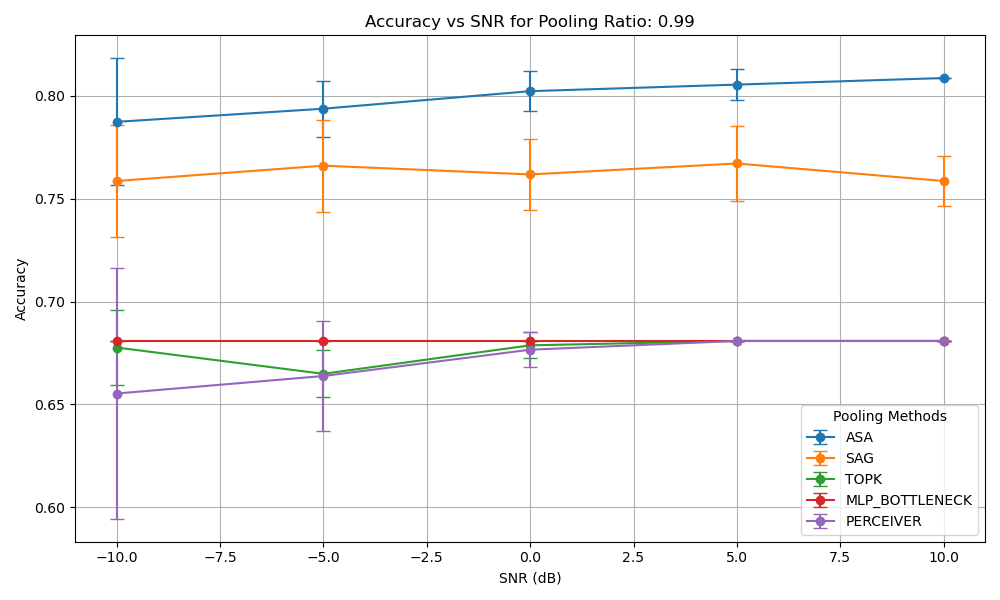
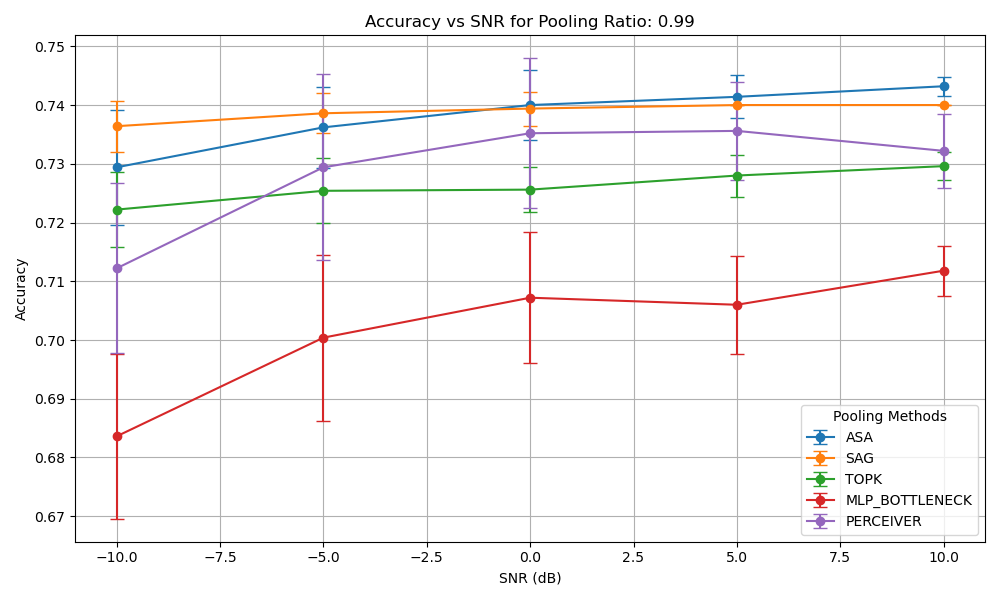
new plots

diff --git a/layers.py b/layers.py
@@ -310,29 +310,25 @@ class DGM_c(nn.Module):
         self.scale=None
         self.distance = distance
         
-        self.scale = nn.Parameter(torch.tensor(-1).float(),requires_grad=False)
-        self.centroid = nn.Parameter(torch.zeros((1,DGM_c.input_dim)).float(),requires_grad=True)
+        # self.scale = nn.Parameter(torch.tensor(-1).float(),requires_grad=False)
+        # self.centroid = nn.Parameter(torch.zeros((1,DGM_c.input_dim)).float(),requires_grad=False)
         
         
     def forward(self, x, A, not_used=None, fixedges=None):
         
         x = self.embed_f(x,A)  
-        
-        # estimate normalization parameters
-        if self.scale <0:            
-            self.centroid.data = x.mean(-2,keepdim=True).detach()
-            self.scale.data = (0.9/(x-self.centroid).abs().max()).detach()
-            #print(f"Centroid shape: {self.centroid.shape}")
 
-        x_centered = x - self.centroid
-        #print(f"x_centered shape: {x_centered.shape}")
-        
+        # if self.scale <0:            
+        #     self.centroid.data = x.mean(-2,keepdim=True).detach()
+        #     self.scale.data = (0.9/(x-self.centroid).abs().max()).detach()
+
+        # x_centered = x - self.centroid
         if self.distance=="hyperbolic":
-            D, _x = pairwise_poincare_distances((x-self.centroid)*self.scale)
+            D, _x = pairwise_poincare_distances(x)
         else:
-            D, _x = pairwise_euclidean_distances(x_centered*self.scale)
+            D, _x = pairwise_euclidean_distances(x)
             
-        A = torch.sigmoid(self.temperature*(self.threshold.abs()-D))
+        A = torch.sigmoid(self.temperature*(self.threshold.abs()- D))    # 1/1+e^(- t*(thresh - D ))
 
         edge_index, edge_weight = dense_to_sparse(A)
         
@@ -359,22 +355,20 @@ class DGM_c_batch(nn.Module):
         num_nodes = x.size(0)  # Total number of nodes
         num_graphs = batch.max().item() + 1  # Number of graphs in the batch
         
-        # Split the batch into individual graphs
         x_list = []
         edge_index_list = []
         edge_weight_list = []
         node_offset = 0
         
         for graph_id in range(num_graphs):
-            # Select the nodes and edges that belong to the current graph
+           
             graph_mask = (batch == graph_id)
-            x_graph = x[graph_mask]  # Features of nodes in this graph
+            x_graph = x[graph_mask]  
             
-            # Get the edges for the current graph
+            
             edge_mask = (batch[edge_index[0]] == graph_id) & (batch[edge_index[1]] == graph_id)
-            edge_index_graph = edge_index[:, edge_mask] - node_offset  # Adjust edge indices for local nodes
+            edge_index_graph = edge_index[:, edge_mask] - node_offset  
 
-            # Apply DGM_c for the current graph
             x_graph, edge_index_graph, edge_weight_graph = self.dgm_c(x_graph, edge_index_graph)
 
             # Adjust edge indices to the global batch space

diff --git a/my_model.py b/my_model.py
@@ -101,12 +101,11 @@ class Model_channel(pl.LightningModule):
         '''
         data: a batch of data. Must have attributes: x, batch, ptr
         '''
-        
         x = data.x.detach()
         batch = data.batch_0
         ptr = data.ptr
         x = self.pre(x)
-        
+
         if self.skip is not None: 
             skip = self.skip(x)
 
@@ -163,10 +162,10 @@ class Model_channel(pl.LightningModule):
 
         x = self.receiver(x, edges)
 
+
         #x = torch.nn.functional.relu(x)
 
         x = global_mean_pool(x, batch)  #aggregate all features in one supernode per graph.
-        
         x = self.post(x, edges)
 
         return x, edges#, ne_probs
@@ -193,11 +192,11 @@ class Model_channel(pl.LightningModule):
 
         if torch.isnan(tr_loss).any() or torch.isnan(pred).any():
             print(f"NaN detected in training data or loss at batch {batch_idx}")
-            print(f"Predictions: {pred}, Labels: {train_lab}")
+            # print(f"Predictions: {pred}, Labels: {train_lab}")
         batch_size = batch.batch_0.max().item() + 1  
         self.log("train_acc", self.train_acc(pred.softmax(-1).argmax(-1), train_lab), on_step=False, on_epoch=True, prog_bar = True, batch_size = batch_size)
         self.log("train_loss", tr_loss, on_step=False, on_epoch=True, prog_bar = True, batch_size = batch_size)
-        #torch.nn.utils.clip_grad_norm_(self.parameters(), max_norm=1.0)
+        torch.nn.utils.clip_grad_norm_(self.parameters(), max_norm=1.0)
 
         return tr_loss
 
@@ -213,7 +212,7 @@ class Model_channel(pl.LightningModule):
         # Check for NaN values in the loss or predictions
         if torch.isnan(val_loss).any() or torch.isnan(pred).any():
             print(f"NaN detected in validation data or loss at batch {batch_idx}")
-            print(f"Predictions: {pred}, Labels: {val_lab}")
+            # print(f"Predictions: {pred}, Labels: {val_lab}")
         batch_size = batch.batch_0.max().item() + 1  
         # Compute and log validation accuracy
         val_acc = self.val_acc(pred.softmax(-1).argmax(-1), val_lab)
@@ -221,6 +220,7 @@ class Model_channel(pl.LightningModule):
         # Log validation accuracy and loss
         self.log("val_acc", val_acc, on_step=False, on_epoch=True, prog_bar=True, batch_size = batch_size)
         self.log("val_loss", val_loss, on_step=False, on_epoch=True, prog_bar=True, batch_size = batch_size)
+        torch.nn.utils.clip_grad_norm_(self.parameters(), max_norm=1.0)
 
         return val_loss
 

diff --git a/baseline_layers.py b/baseline_layers.py
@@ -155,11 +155,11 @@ class Perceiver(nn.Module):
     def __init__(
         self,
         input_channels=3,
-        latent_dim=512,
-        cross_heads=3,
-        latent_heads=3,
-        cross_dim_head=64,
-        latent_dim_head=64,
+        latent_dim=128,
+        cross_heads=1,
+        latent_heads=1,
+        cross_dim_head=16,
+        latent_dim_head=16,
         attn_dropout=0.0,
         ff_dropout=0.0,
         perceiver_depth=1,

diff --git a/main.py b/main.py
@@ -565,5 +565,5 @@ if __name__ == "__main__":
     #train_and_plot()
     setup_training()
     #train_and_plot_comparison()
-    # compare_poolings_fixed_snr()
+    compare_poolings_fixed_snr()
 
